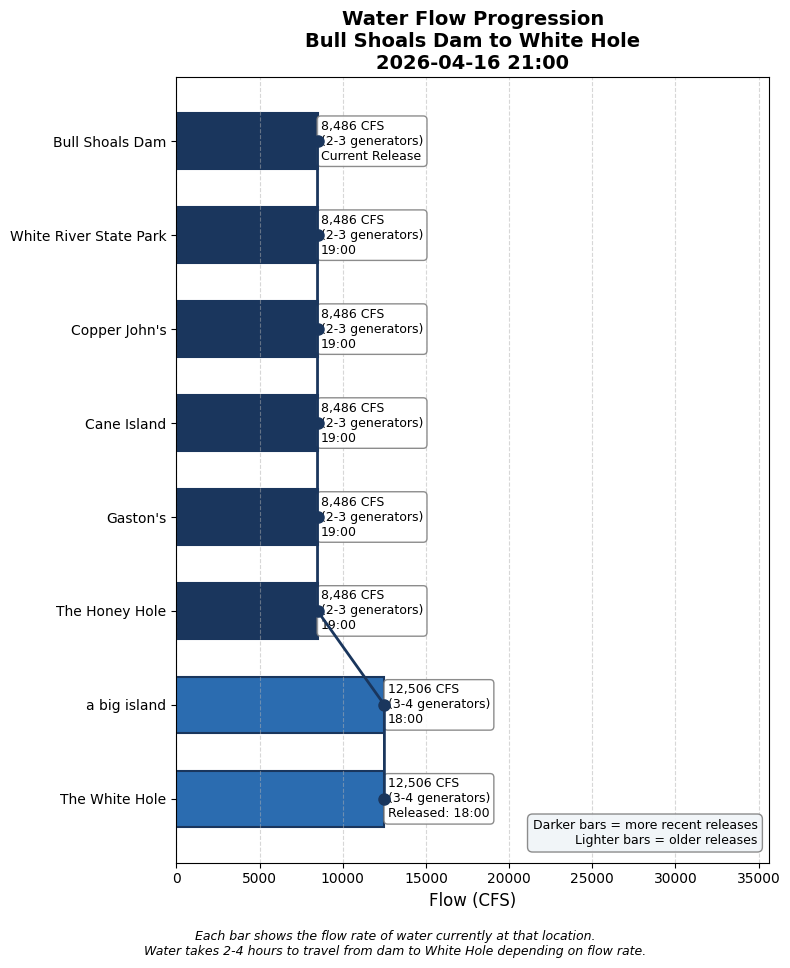
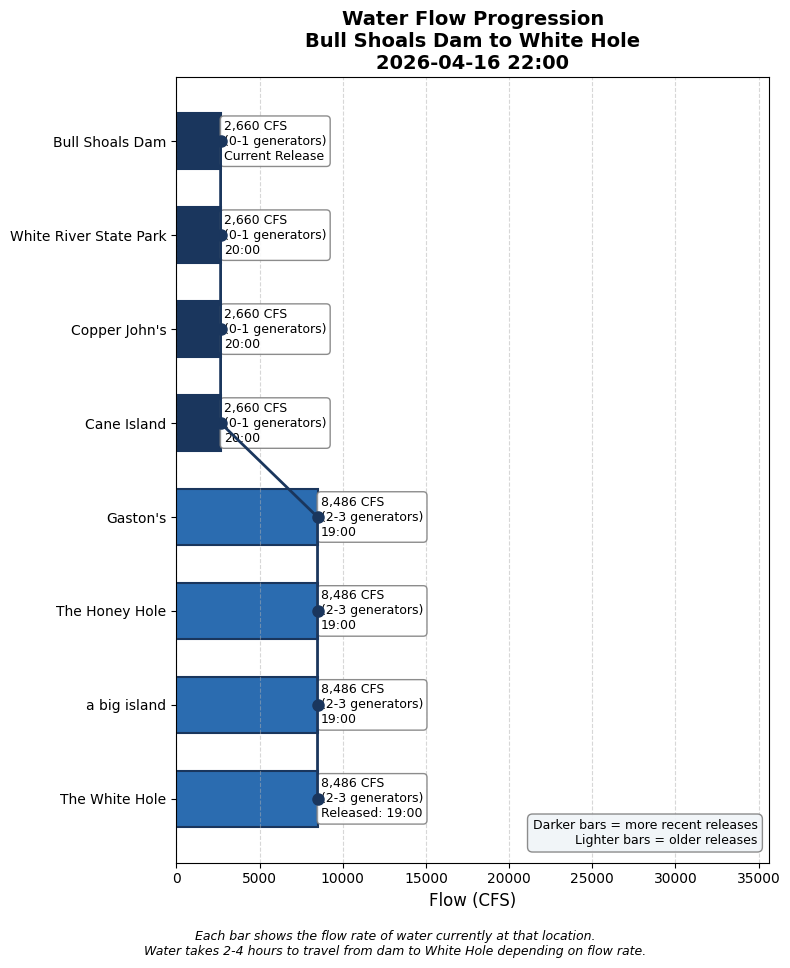
Update water conditions 2026-04-16 22:00

Changed region(s): [[0.2127, 0.093, 0.638, 0.8678]]

diff --git a/white_hole_conditions.html b/white_hole_conditions.html
@@ -3,7 +3,7 @@
 <head>
     <meta charset="UTF-8">
     <meta name="viewport" content="width=device-width, initial-scale=1.0">
-    <title>White Hole Conditions - 2026-04-16 21:00</title>
+    <title>White Hole Conditions - 2026-04-16 22:00</title>
     <style>
         body {
             font-family: -apple-system, BlinkMacSystemFont, 'Segoe UI', Roboto, sans-serif;
@@ -77,8 +77,8 @@
             color: #991b1b;
         }
         .pill.boating {
-            background-color: #fee2e2;
-            color: #991b1b;
+            background-color: #dbeafe;
+            color: #1e40af;
         }
         .timeline-box {
             background-color: white;
@@ -148,7 +148,7 @@
 </head>
 <body>
     <h1>White Hole Current Conditions</h1>
-    <p class="subtitle">Thursday, April 16, 2026 at 09:00 PM</p>
+    <p class="subtitle">Thursday, April 16, 2026 at 10:00 PM</p>
 
     <!-- HEADLINE BANNER -->
     <div class="headline-banner">
@@ -160,11 +160,11 @@
     <!-- CURRENT CONDITIONS -->
     <div class="current-conditions">
         <h3>Current Conditions at White Hole</h3>
-        <div class="flow-display">12,506 CFS</div>
-        <div class="generator-display">Equivalent to 3-4 generators</div>
+        <div class="flow-display">8,486 CFS</div>
+        <div class="generator-display">Equivalent to 2-3 generators</div>
         <div class="condition-pills">
             <span class="pill wading">No Wading</span>
-            <span class="pill boating">High Water</span>
+            <span class="pill boating">Ideal Boating</span>
         </div>
         <a href="https://www.youtube.com/channel/UCAXhb9nFnsfu367AthDrgIA/live" target="_blank" class="webcam-link" style="margin-top: 15px;">
             📹 View Live Webcam
@@ -186,60 +186,30 @@
                 </thead>
                 <tbody>
                     
-                <tr><td colspan="3" style="padding: 8px 10px; font-size: 0.8em; font-weight: bold; color: #6b46c1; text-transform: uppercase; letter-spacing: 0.05em; background-color: #f3e8ff;">Scheduled (SWPA forecast)</td></tr>
-                
-                    <tr style="background-color: #faf5ff; border-left: 4px solid #38a169;">
-                        <td style="padding: 10px; font-weight: bold;">11 PM</td>
-                        <td style="padding: 10px;">723 CFS<br><small style="color: #666;">(0-1 generators: 473 generation + 250 min flow)</small></td>
-                        <td style="padding: 10px;">~2:44 AM
-                            <span style="display: inline-block; margin-left: 6px; padding: 2px 8px; border-radius: 12px; font-size: 0.8em; background-color: #d1fae5; color: #065f46;">Excellent Wading</span>
-                        </td>
-                    </tr>
-                
-                    <tr style="background-color: #faf5ff; border-left: 4px solid #38a169;">
-                        <td style="padding: 10px; font-weight: bold;">10 PM</td>
-                        <td style="padding: 10px;">723 CFS<br><small style="color: #666;">(0-1 generators: 473 generation + 250 min flow)</small></td>
-                        <td style="padding: 10px;">~1:44 AM
-                            <span style="display: inline-block; margin-left: 6px; padding: 2px 8px; border-radius: 12px; font-size: 0.8em; background-color: #d1fae5; color: #065f46;">Excellent Wading</span>
-                        </td>
-                    </tr>
-                
-                    <tr style="background-color: #faf5ff; border-left: 4px solid #38a169;">
-                        <td style="padding: 10px; font-weight: bold;">9 PM</td>
-                        <td style="padding: 10px;">723 CFS<br><small style="color: #666;">(0-1 generators: 473 generation + 250 min flow)</small></td>
-                        <td style="padding: 10px;">~12:44 AM
-                            <span style="display: inline-block; margin-left: 6px; padding: 2px 8px; border-radius: 12px; font-size: 0.8em; background-color: #d1fae5; color: #065f46;">Excellent Wading</span>
-                        </td>
-                    </tr>
-                
-            
                     
                 <tr><td colspan="3" style="padding: 8px 10px; font-size: 0.8em; font-weight: bold; color: #2b6cb0; text-transform: uppercase; letter-spacing: 0.05em; background-color: #ebf8ff;">Actual (dam readings)</td></tr>
                 
                     <tr style="background-color: #ebf8ff;">
-                        <td style="padding: 10px; font-weight: bold;">7:00 PM</td>
-                        <td style="padding: 10px;">8,486 CFS<br><small style="color: #666;">(2-3 generators)</small></td>
-                        <td style="padding: 10px;"><span style="color: #2b6cb0;">→ Arrives ~9:46 PM (in 46 min)</span></td>
+                        <td style="padding: 10px; font-weight: bold;">8:00 PM</td>
+                        <td style="padding: 10px;">2,660 CFS<br><small style="color: #666;">(0-1 generators)</small></td>
+                        <td style="padding: 10px;"><span style="color: #2b6cb0;">→ Arrives ~11:44 PM (in 103 min)</span></td>
                     </tr>
                 
                     <tr style="background-color: #e6fffa;">
-                        <td style="padding: 10px; font-weight: bold;">6:00 PM</td>
-                        <td style="padding: 10px;">12,506 CFS<br><small style="color: #666;">(3-4 generators)</small></td>
+                        <td style="padding: 10px; font-weight: bold;">7:00 PM</td>
+                        <td style="padding: 10px;">8,486 CFS<br><small style="color: #666;">(2-3 generators)</small></td>
                         <td style="padding: 10px;"><span style="color: #319795; font-weight: bold;">← AT WHITE HOLE NOW</span></td>
                     </tr>
                 
                     <tr style="">
-                        <td style="padding: 10px; font-weight: bold;">2:00 PM</td>
-                        <td style="padding: 10px;">718 CFS<br><small style="color: #666;">(0-1 generators)</small></td>
+                        <td style="padding: 10px; font-weight: bold;">3:00 PM</td>
+                        <td style="padding: 10px;">723 CFS<br><small style="color: #666;">(0-1 generators)</small></td>
                         <td style="padding: 10px;"><span style="color: #718096;">passed</span></td>
                     </tr>
                 
             
                 </tbody>
             </table>
-            
-            <p style="color: #999; font-size: 0.8em; margin-top: 10px;">Scheduled CFS are estimates based on generation plus ~250 CFS minimum base flow. Actual release may vary.</p>
-            <p style="color: #999; font-size: 0.8em; margin-top: 5px;">Forecast source: <a href="https://www.energy.gov/swpa/generation-schedules" target="_blank" style="color: #999;">SWPA Generation Schedules</a></p>
             
         </div>
         
@@ -260,9 +230,9 @@
         </summary>
         <div style="padding: 15px;">
             <ul>
-                <li>Latest dam reading: 8,486 CFS at 2026-04-16 19:00</li>
-                <li>Travel time to White Hole: 2.5 hours at current flow</li>
-                <li>White Hole conditions based on dam reading from: 2026-04-16 18:00</li>
+                <li>Latest dam reading: 2,660 CFS at 2026-04-16 20:00</li>
+                <li>Travel time to White Hole: 2.8 hours at current flow</li>
+                <li>White Hole conditions based on dam reading from: 2026-04-16 19:00</li>
             </ul>
         </div>
     </details>
@@ -284,6 +254,13 @@
                     </thead>
                     <tbody>
                         
+                <tr style="border-bottom: 1px solid #eee;">
+                    <td style="padding: 8px;">2026-04-16 20:00</td>
+                    <td style="padding: 8px; text-align: right;">2660</td>
+                    <td style="padding: 8px; text-align: right;">0.8</td>
+                    <td style="padding: 8px; text-align: right;">3.7</td>
+                </tr>
+                
                 <tr style="border-bottom: 1px solid #eee;">
                     <td style="padding: 8px;">2026-04-16 19:00</td>
                     <td style="padding: 8px; text-align: right;">8486</td>
@@ -347,13 +324,6 @@
                     <td style="padding: 8px; text-align: right;">3.7</td>
                 </tr>
                 
-                <tr style="border-bottom: 1px solid #eee;">
-                    <td style="padding: 8px;">2026-04-16 10:00</td>
-                    <td style="padding: 8px; text-align: right;">712</td>
-                    <td style="padding: 8px; text-align: right;">0.2</td>
-                    <td style="padding: 8px; text-align: right;">3.7</td>
-                </tr>
-                
                     </tbody>
                 </table>
             </div>
@@ -361,7 +331,7 @@
         
 
     <div class="timestamp">
-        Data retrieved and processed on 2026-04-16 21:00:07
+        Data retrieved and processed on 2026-04-16 22:00:23
     </div>
 </body>
 </html>
